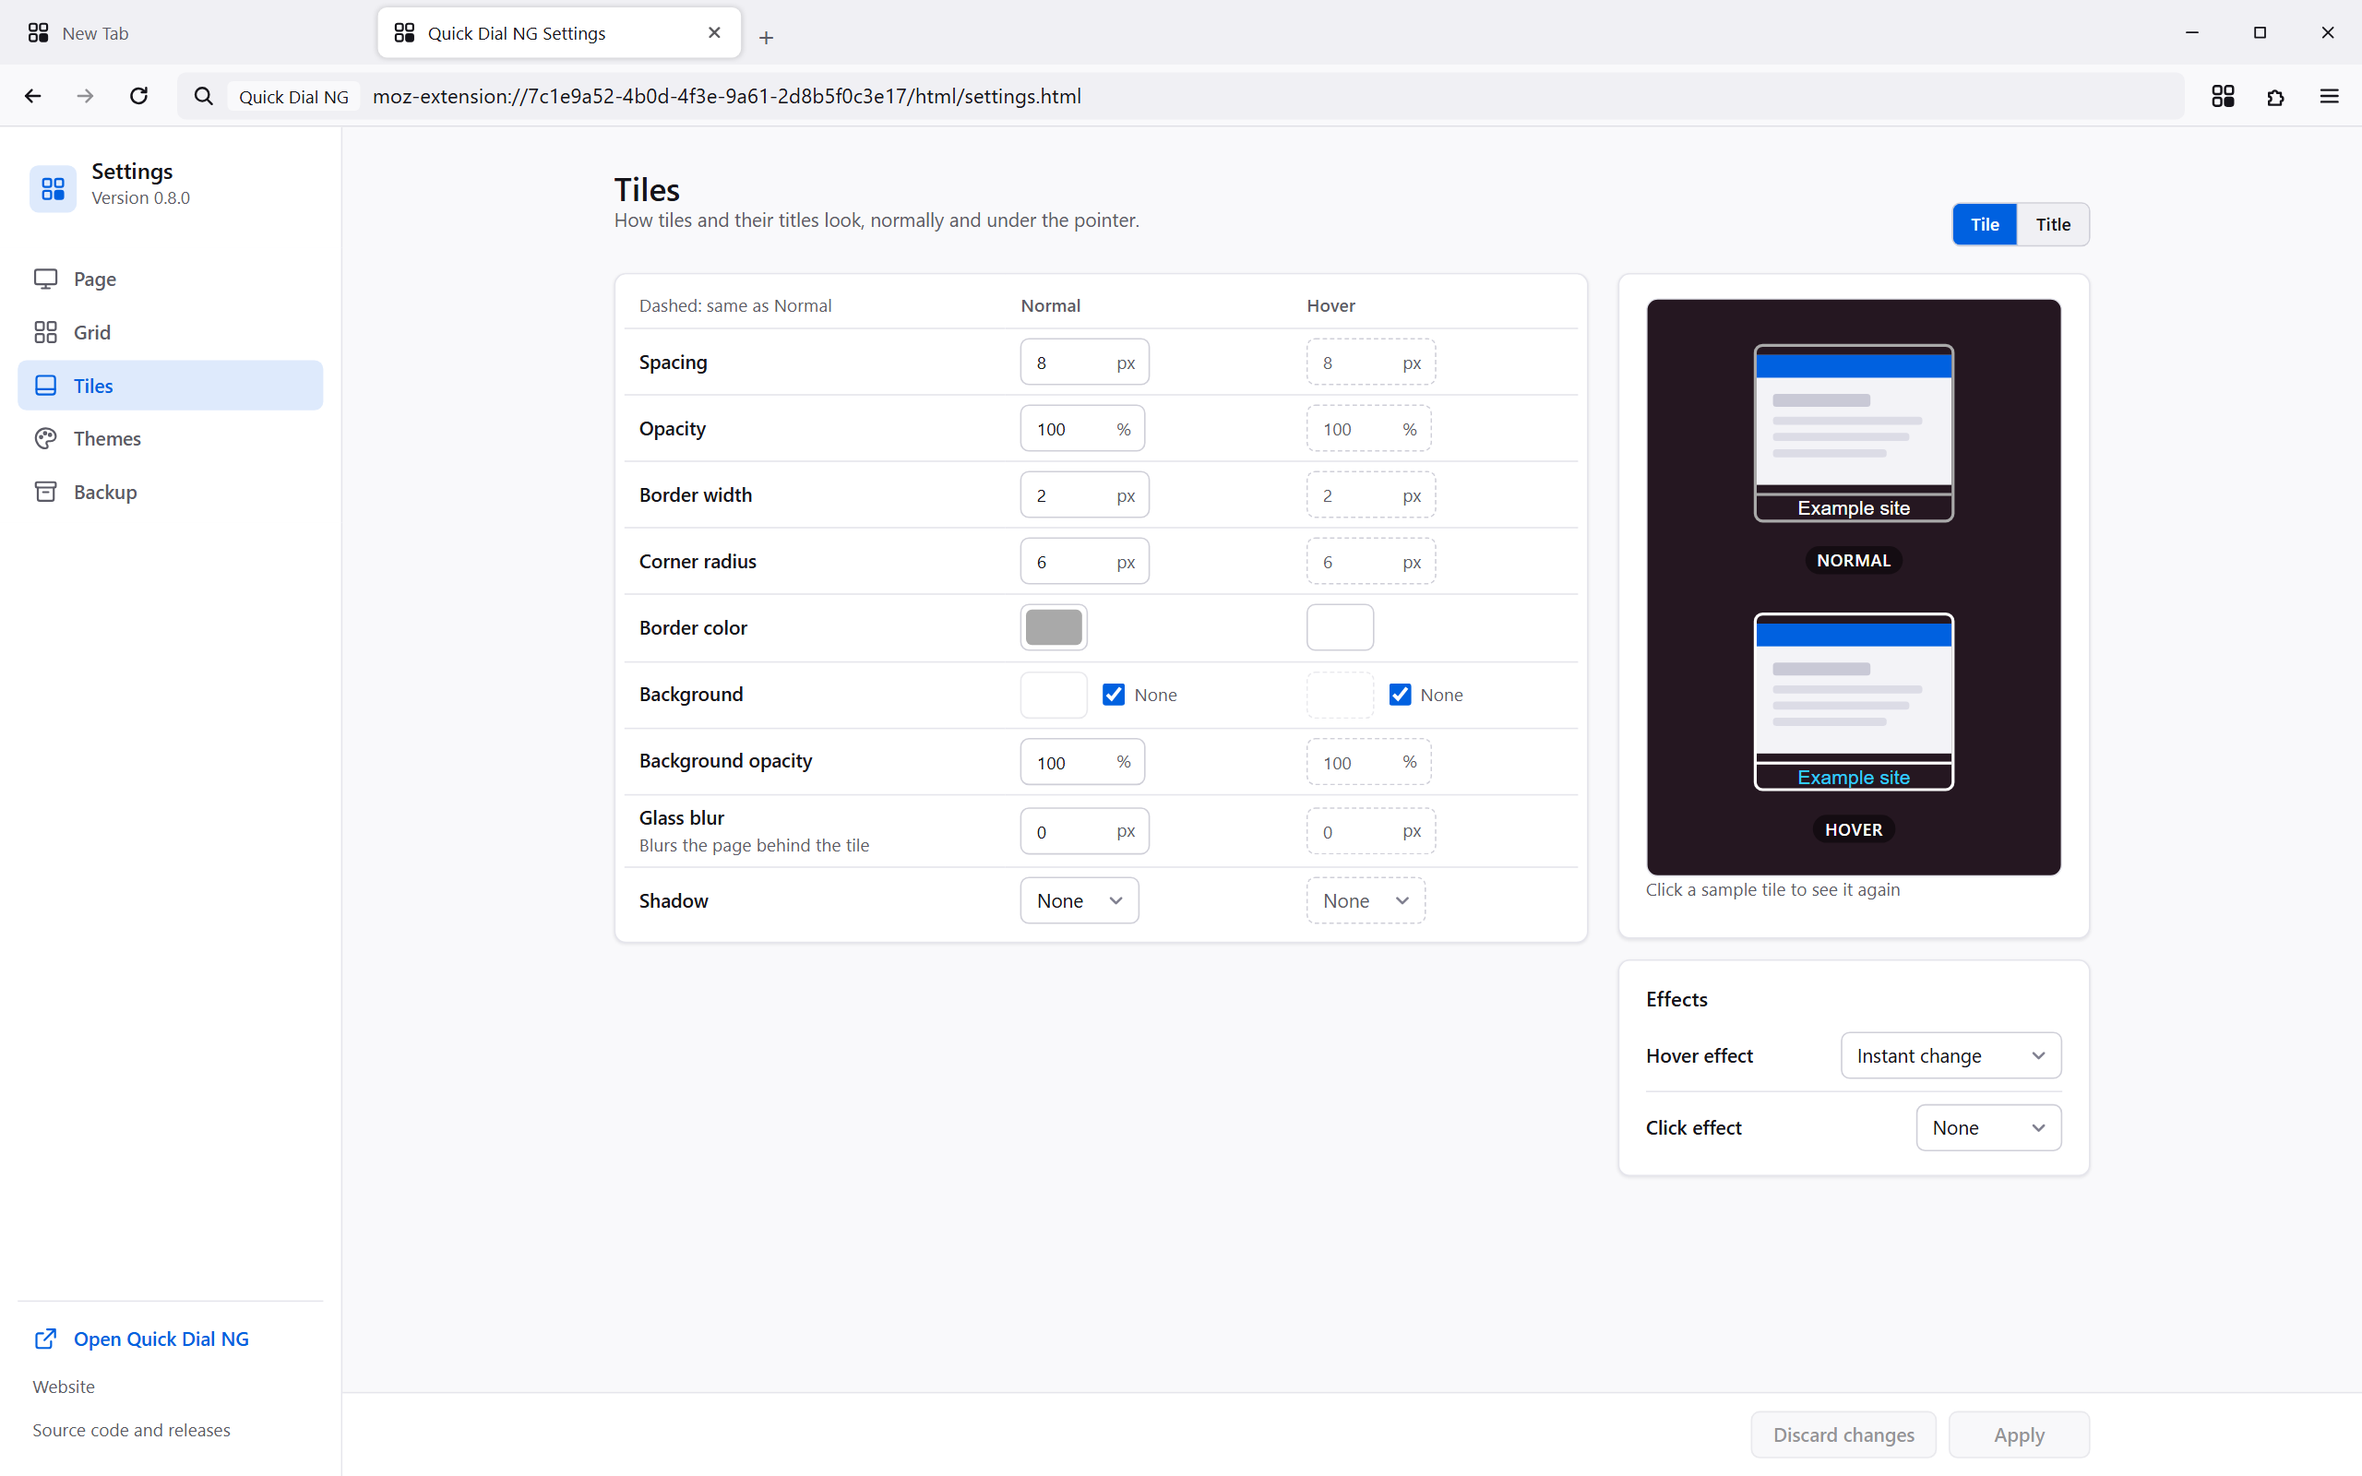
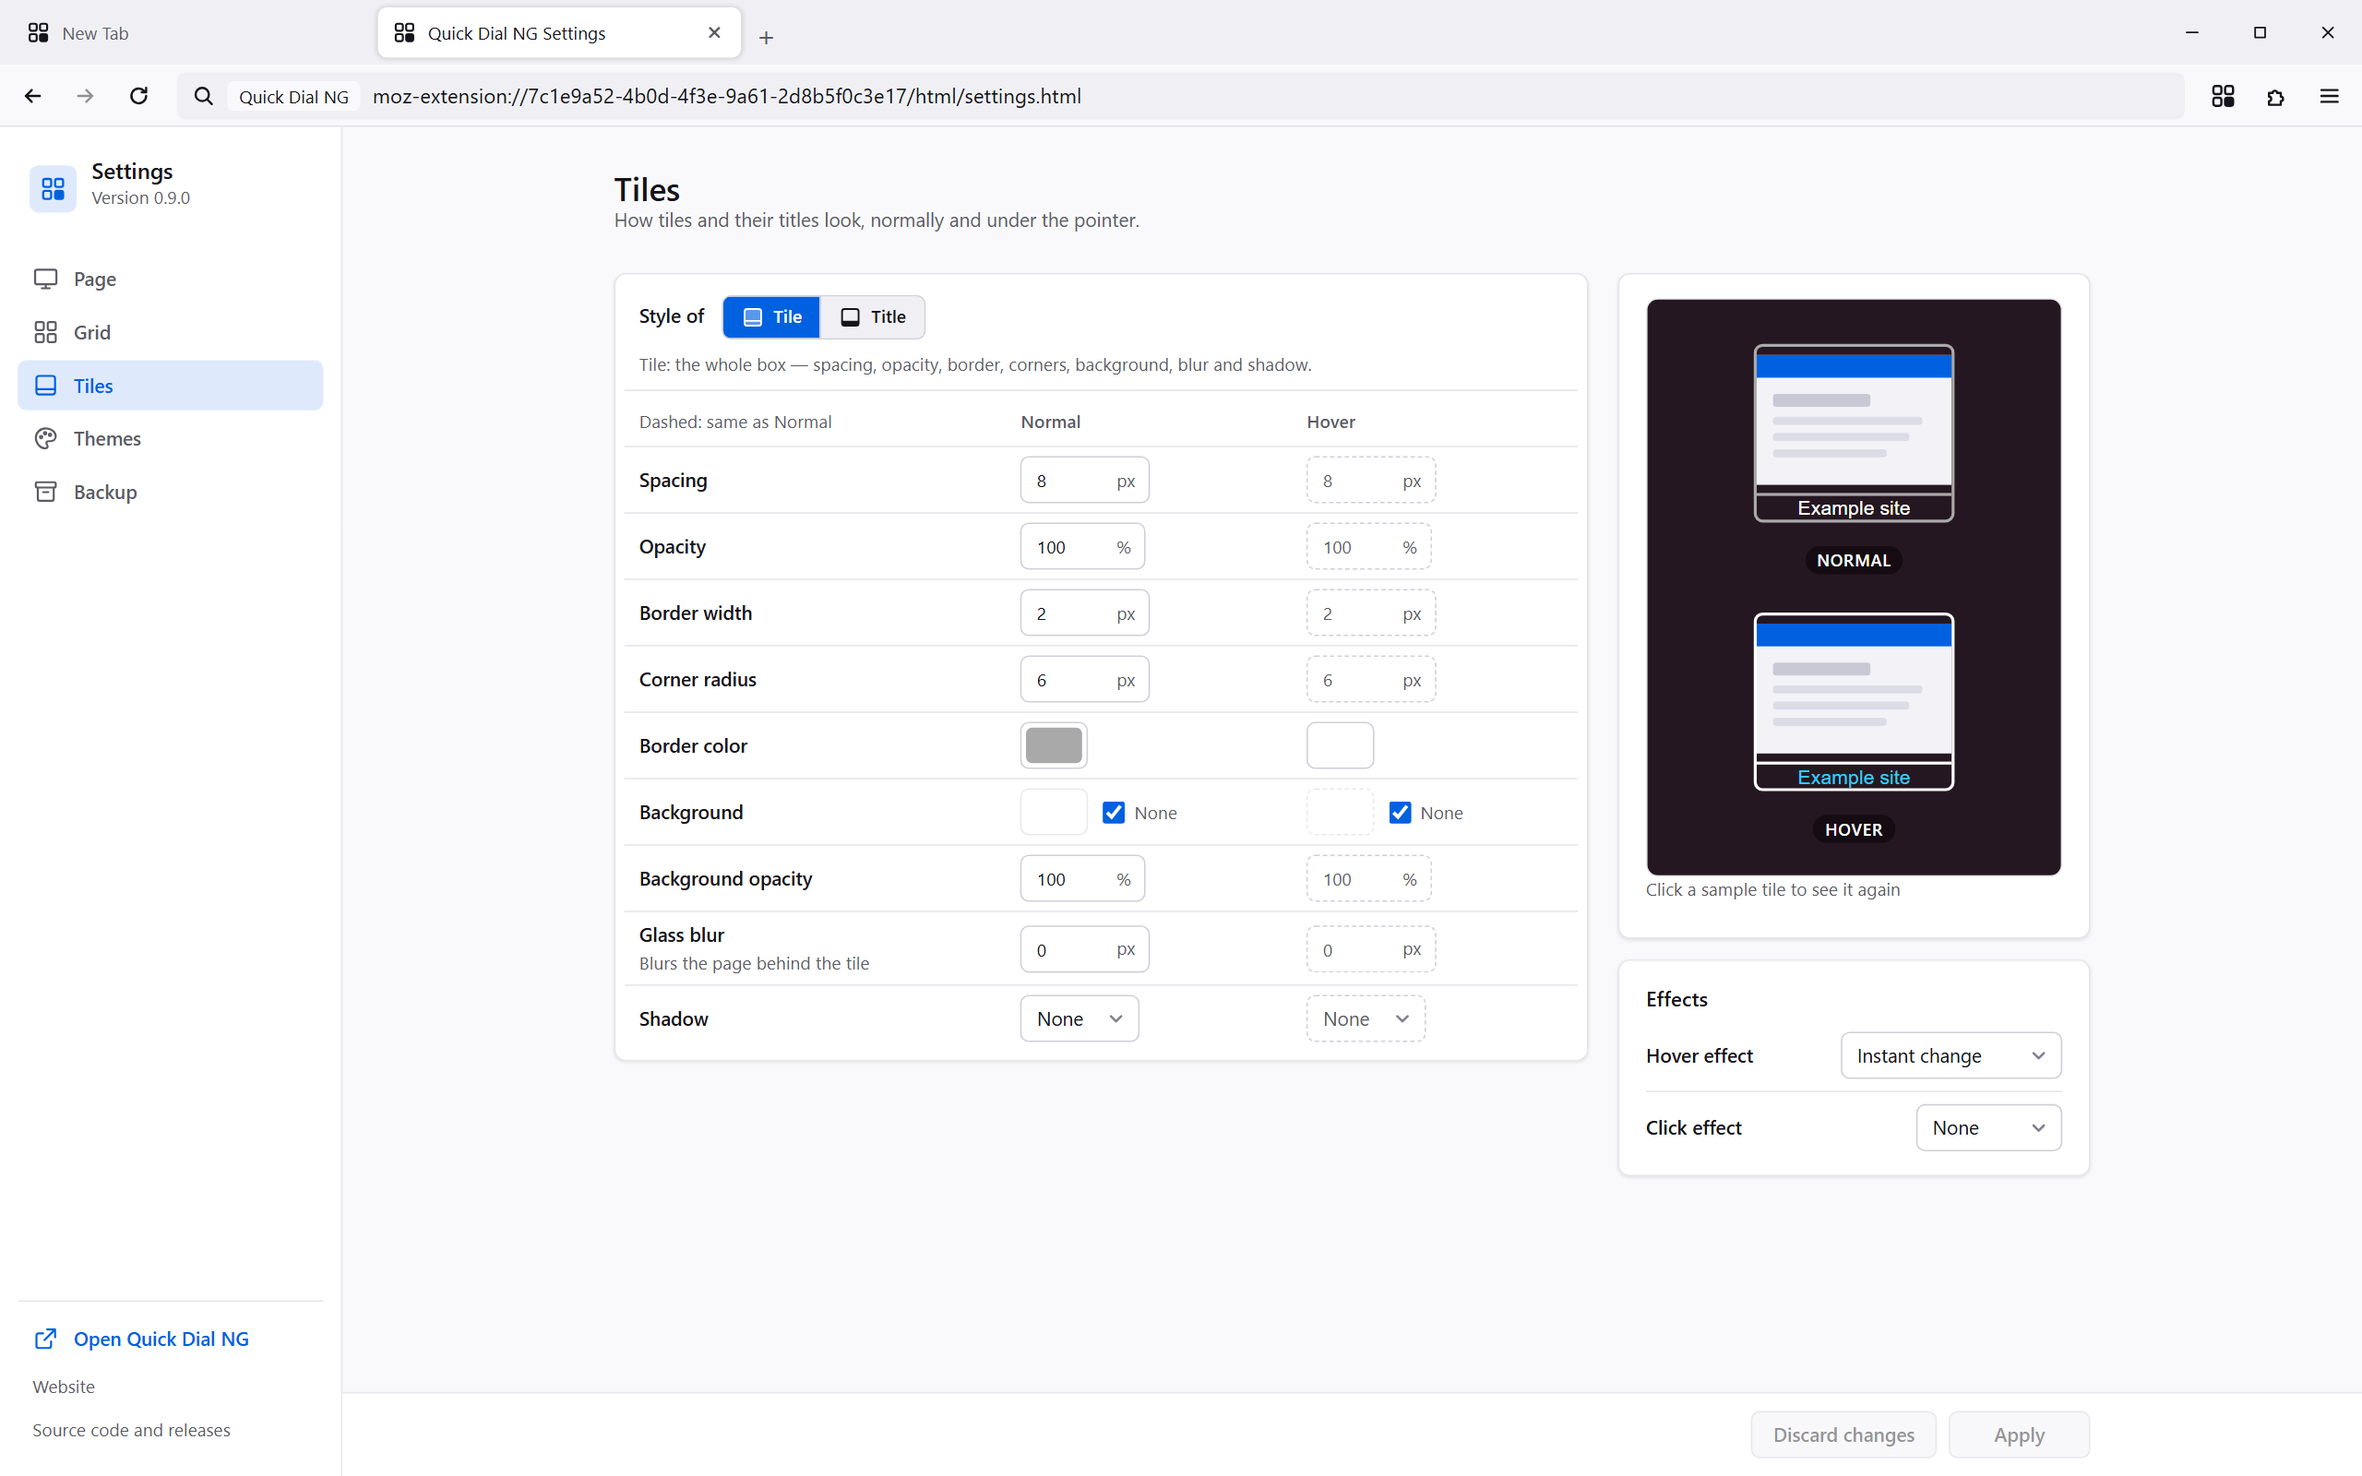
Release 0.9.0: version bump, release notes, listing and screenshots
- manifest: 0.9.0
- amo-listing.md: 0.9.0 release notes (site icons and letter tiles, New tiles
  get, icon sets, the desktop layout, fixes); the description names the new
  picture sources and why the add-on reaches websites and GitHub; the
  Properties caption names them too
- README: Settings sections are all one width, with their preview beside
- screenshots: Settings remade at 0.9.0 in the new layout; the website's
  settings-tiles-glass is Tiles in Dusk over its sunset picture (the whole
  table fits now, so scrolling it showed the same picture as settings-tiles);
  the scrollTo helper it used is gone

diff --git a/test/screenshots/make-screenshots.js b/test/screenshots/make-screenshots.js
@@ -292,12 +292,6 @@ async function openDial(browser, port, scheme, layout, look, pictures, errors) {
 	return dialWindow;
 }
 
-// Scrolls the Settings content so `selector` sits just below the top edge (below a sticky table header if there is one)
-const scrollTo = (frame, selector, offset = 16) => frame.evaluate(([cssSelector, gap]) => {
-	const content = document.getElementById('Content'), element = document.querySelector(cssSelector);
-	content.scrollTop += element.getBoundingClientRect().top - content.getBoundingClientRect().top - gap;
-}, [selector, offset]);
-
 // Two pictures of the same size as one: the left part of `left` and the right part of `right`, split on a slant (SPLIT_TOP to SPLIT_BOTTOM)
 async function combine(browser, left, right, file) {
 	const page = await browser.newPage({ viewport: WINDOW, deviceScaleFactor: SCALE });
@@ -385,12 +379,14 @@ async function main() {
 		await dialWindow.shot(scheme === 'light' ? 'settings-themes' : 'settings-themes-dark', WEBSITE_OUT);
 		if (scheme === 'light') {
 			await settings.click('#TabTilesButton'); await wait(CLICK_WAIT); await dialWindow.shot('settings-tiles', WEBSITE_OUT);
-			await scrollTo(settings, 'tr:has(#GridCellsBackgroundColor)', 44); await dialWindow.shot('settings-tiles-glass', WEBSITE_OUT);
 			await settings.click('#TabPageButton'); await wait(CLICK_WAIT); await dialWindow.shot('settings-page', WEBSITE_OUT);
 			await settings.click('#TabGridButton'); await wait(CLICK_WAIT); await dialWindow.shot('settings-grid', WEBSITE_OUT);
 			dial = await dialWindow.dial();
 			await dial.evaluate(() => app.editProperties([...document.querySelectorAll('.qd-grid a')].find(link => link.gridNode && link.gridNode.title === 'Photos')));
 			await wait(SETTINGS_WAIT); await dialWindow.shot('properties', WEBSITE_OUT);
+			// Glass: Tiles in Dusk over its sunset picture, with the blur, background opacity and shadow it sets
+			await dialWindow.look({ theme: 'dusk', wallpaper: 'dusk' });
+			await dialWindow.openSettings('Tiles'); await dialWindow.shot('settings-tiles-glass', WEBSITE_OUT);
 		}
 		await dialWindow.context.close();
 	}

diff --git a/release/amo-listing.md b/release/amo-listing.md
@@ -26,7 +26,8 @@ Quick Dial NG turns your new tab and home page into a grid of tiles. Each tile i
 **Tiles**
 
 - Add, edit, move and delete tiles right on the page; subfolders become folder tiles.
-- Pictures: "Capture in a new tab" takes a screenshot of the site as you see it, signed in. You can also upload, drag in or paste your own picture.
+- Pictures: "Capture in a new tab" takes a screenshot of the site as you see it, signed in. Or use the site's own icon (a letter tile when it has none), an icon from an open icon set (Outline, Pixel or Retro color, downloaded only when you ask for it), or upload, drag in or paste your own picture.
+- Choose what new tiles get: a screenshot, the site's icon, or the icon with a screenshot for sites without one.
 - Set the number of rows and columns, the tile shape, margins, borders, titles and the background colour or picture.
 
 **Themes**
@@ -53,7 +54,7 @@ Quick Dial NG also sets itself as the home page, so the dial opens when Firefox 
 No data is collected or sent anywhere. Settings and pictures stay in your Firefox profile.
 
 - Bookmarks: tiles are the bookmarks of the Quick Dial folder.
-- Access to all websites: to capture a site's picture and read its title.
+- Access to all websites: to capture a site's picture, read its title and get its icons. An icon set comes from this project's GitHub releases, only when you download it.
 - Tabs: opens the site in a background tab for the capture, then closes it; opens the dial or Settings from the toolbar button.
 - Menus: the right-click menu on the dial and on the toolbar button.
 - Storage: settings, themes and pictures.
@@ -88,11 +89,21 @@ The seven main pictures from [`screenshots/`](../screenshots/), in this order (t
 | 4 | [`dial-folder.png`](../screenshots/dial-folder.png) | A folder opened on the dial, with the Back tile. |
 | 5 | [`dial-anori.png`](../screenshots/dial-anori.png) | The usual speed dial in the built-in Anori theme: glass tiles and titles over the pictures. |
 | 6 | [`settings.png`](../screenshots/settings.png) | Settings › Themes: preview a theme, apply it, or save, export and import your own. Settings follow Firefox's light or dark mode. |
-| 7 | [`properties.png`](../screenshots/properties.png) | Bookmark properties: title, address and picture. Choose, drop or paste an image, or keep it from being replaced. |
+| 7 | [`properties.png`](../screenshots/properties.png) | Bookmark properties: the tile as the dial shows it, with its picture from the page, the site's icon, an icon set or your own image. |
 
 ## Release notes
 
 The "Release notes" field of each version on AMO; the same text goes to the GitHub release (`--notes`). Newest first.
+
+### 0.9.0
+
+```
+- Site icons and letter tiles: a tile's picture can be the site's own icon (right-click › Picture › Use site icon, or Properties › Site icon). The icons come only from the site itself, never from a favicon service; a site without one gets a letter tile.
+- New tiles get: Settings › Grid › Thumbnails chooses whether a new tile starts with a screenshot, the site's icon, or the icon with a screenshot for sites without one. "Apply to tiles…" does the same for the tiles you have, and never replaces pictures you chose yourself. The Desktop, Retro PC and Retro Mono themes offer site icons when you use them.
+- Icons from icon sets: Properties › Icon offers Outline (Tabler Icons), Pixel (Pixelarticons) and Retro color (SerenityOS). A set is downloaded only when you ask for it, checked against a fingerprint, works offline and can be removed again.
+- Settings and Properties laid out for desktop windows: every Settings section is the same width, with its preview beside the settings; the Thumbnails settings moved to Grid; the Tile | Title switch sits on the style table, with a line on what each part is. Properties shows the tile as the dial draws it, beside its form, with where its picture comes from as tabs.
+- Fixes: a bookmark removed from the end of a folder no longer leaves an empty cell there; a bookmark with a folder's name is no longer opened as that folder; changing only a tile's title or Keep picture keeps its picture; a picture that finishes after its tile was deleted is no longer kept; New bookmark refuses vbscript: addresses too.
+```
 
 ### 0.8.0
 

diff --git a/README.md b/README.md
@@ -54,7 +54,7 @@ The original replaced blank tabs with the dial a set time after Firefox started 
 Settings and tile properties have a new layout that follows Firefox's light or dark mode, a live preview of the tile style, image drag-and-drop and paste, and an Apply button that shows when there are unsaved changes. Properties shows the tile beside its form, drawn as the dial draws it (with its title, and its hover style under the pointer), and where its picture comes from as tabs: Page, Site icon, Icon or File. The header names the folder a tile is in. New bookmark, new folder and delete use in-page dialogs instead of browser prompts.
 
 **Settings in its own tab.**
-Settings opens as a full page in its own tab, like the dashboards of other add-ons: from the toolbar button, the dial's right-click menu, or Firefox's Add-ons page (**Options**). A sidebar lists the sections (only their icons in a narrow window); each section shows its settings in one column, every setting with its description at the start and its control at the end, and Tiles and Themes use the full width: the tile style table switches between **Tile** and **Title**, keeps its live preview beside it and greys out the hover values that are the same as the normal ones. Grid shows a small picture of the page's grid as you change rows, columns and tile shape. If Settings is already open, that tab comes forward. **Ctrl+S** applies, **Discard changes** goes back to what the dial uses, the footer counts the changes not applied yet, and Firefox asks before closing the tab with changes not applied. Settings › Page › **Toolbar button** chooses what a click on the button opens: Settings (the default for new installs), the dial in a new tab, or the dial in the current tab (existing installs keep what they had). The button's right-click menu has both.
+Settings opens as a full page in its own tab, like the dashboards of other add-ons: from the toolbar button, the dial's right-click menu, or Firefox's Add-ons page (**Options**). A sidebar lists the sections (only their icons in a narrow window); every section is the same width, with every setting's description at the start and its control at the end, and its preview in a column beside the settings (under them in a narrow window). Tiles has a live preview of the normal and hover look; its style table shows the **Tile** or the **Title** rows, with a line on what that part of a tile is, and greys out the hover values that are the same as the normal ones. Grid shows a picture of the page's grid as you change rows, columns and tile shape, and Page the background picture. If Settings is already open, that tab comes forward. **Ctrl+S** applies, **Discard changes** goes back to what the dial uses, the footer counts the changes not applied yet, and Firefox asks before closing the tab with changes not applied. Settings › Page › **Toolbar button** chooses what a click on the button opens: Settings (the default for new installs), the dial in a new tab, or the dial in the current tab (existing installs keep what they had). The button's right-click menu has both.
 
 **Themes.**
 Settings → **Themes** switches the whole look of the dial at once: background color, page margin, tile and title styles and the accent color of Quick Dial NG's windows. A theme never changes your background picture, rows and columns, tile shape or tiles. **Use** shows a theme in the settings first; **Apply** puts it on the dial. Seven themes are built in: **Classic** (the original look); **Anori**, inspired by the [Anori](https://anori.app/) browser extension; **Plum**, for a large grid with groups of sites; **Dusk**, glass tiles over a sunset; and three icon looks for square tiles with icon pictures: **Desktop**, **Retro PC** (a late-1990s PC desktop) and **Retro Mono** (an early black-and-white desktop). Save your current look as a theme, export any theme to a `.json` file and import theme files from others. Backups include your themes.

diff --git a/test/screenshots/README.md b/test/screenshots/README.md
@@ -40,7 +40,7 @@ Website set (`screenshots/website/`):
 | `dial-retro-pc.png`, `dial-retro-mono.png` | The desktop in the Retro PC theme with SerenityOS icons, and in the Retro Mono theme with Pixelarticons over a dotted pattern picture |
 | `dial-classic.png`, `dial-picture.png` | The usual speed dial in Classic, and in Dusk over a sunset picture |
 | `settings-themes.png`, `settings-themes-dark.png` | Settings › Themes, light and dark |
-| `settings-tiles.png`, `settings-tiles-glass.png` | Settings › Tiles with the live preview, and scrolled to the glass, shadow and hover settings |
+| `settings-tiles.png`, `settings-tiles-glass.png` | Settings › Tiles with the live preview, and in the Dusk theme over its sunset picture: glass tiles, with their blur, background opacity and shadow |
 | `settings-page.png`, `settings-grid.png` | Settings › Page and Grid |
 | `properties.png` | Bookmark properties, light |
 
@@ -73,7 +73,7 @@ The main [README](../../README.md#credits) credits them too.
 
 ## Changing the screenshots
 
-- **Another view:** add a few lines to `main()`. The helpers from `openDial()` apply a look (`look({ theme: 'plum', wallpaper, folder })`), save the user's own themes (`saveThemes(['desktopDay'])`), reload the dial with tabs beside it (`dial([TABS.mail])`), open Settings on a section (`openSettings('Tiles')`), hover a tile (`hover(dial, 'Photos')`) and save the window (`shot('name')`, or `shot('name', WEBSITE_OUT)`). `scrollTo(frame, selector)` scrolls the Settings content.
+- **Another view:** add a few lines to `main()`. The helpers from `openDial()` apply a look (`look({ theme: 'plum', wallpaper, folder })`), save the user's own themes (`saveThemes(['desktopDay'])`), reload the dial with tabs beside it (`dial([TABS.mail])`), open Settings on a section (`openSettings('Tiles')`), hover a tile (`hover(dial, 'Photos')`) and save the window (`shot('name')`, or `shot('name', WEBSITE_OUT)`).
 - **Another layout:** add it to `LAYOUTS`: rows, columns, tile shape and the cells. `site('mail', [row, column])` places a dark site, `iconTile('mail', [row, column])` its icon, `folder('Name', [row, column], [cells])` a folder; cells without a place fill the free cells in order.
 - **Another site:** add it to `DARK_SITES` in `dark-sites.js` (or `SITES` in `sites.js`) and, for the desktop scenes, its drawing and colours in `icons.js` under the same key.
 - **New UI text or controls** need nothing here: the pages come from `src/` at every run. A scene breaks only if an element it clicks (by id) is renamed.
